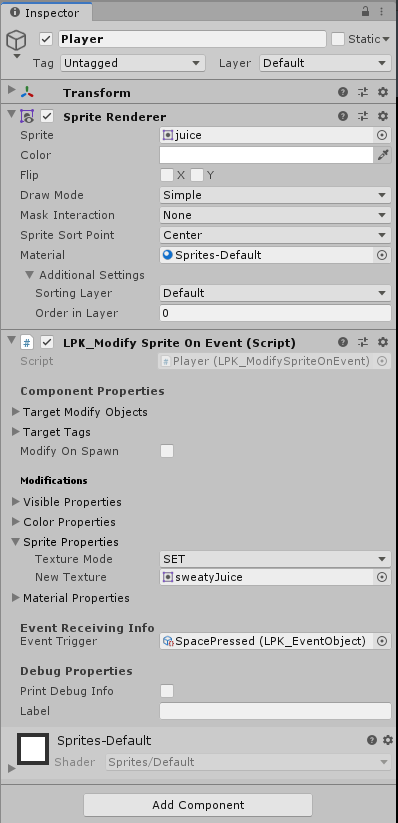
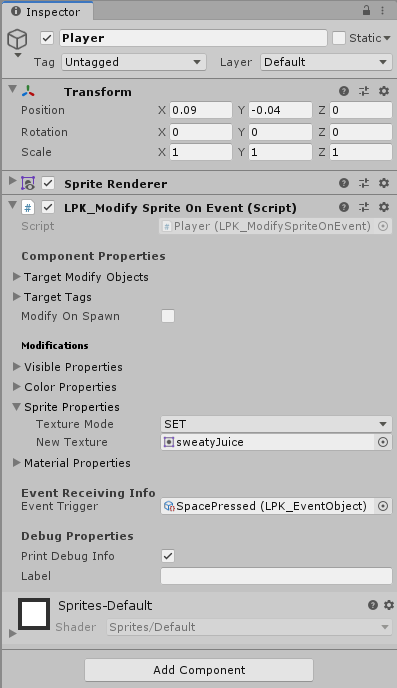
event system update

diff --git a/event_system_tutorial.html b/event_system_tutorial.html
@@ -44,7 +44,7 @@
                 DragonPack utilizes a custom, dynamic event system for easy game customization with no scripting! This tutorial explains the basics of how to use it, using <a href="dispatch_on_keyboard_input.html" target="_blank">Dispatch on Keyboard Input</a>                and <a href="modify_sprite_on_event.html" target="_blank">Modify Sprite on Event</a>.
 
                 <p>
-                    <font size="3px"><i>This tutorial follows suggested practices for naming conventions and organization. You may feel free to omit whatever details you see fit.</i></font>
+                    <font size="3px"><i>This tutorial follows suggested practices for naming conventions and organization - you may name and organize how you see fit, but make sure it's consistent and everything makes sense!</i></font>
                 </p>
 
                 This is the project that was used to create this tutorial. Feel free to download it to mess around with, but remember that creating things from scratch is important to really learn things!
@@ -57,8 +57,8 @@
                 </h2>
 
                 <p>
-                    DragonPack has custom 'EventObject' objects that you create and name. Some components send events, and other components receive events. The name of your events doesn't matter, as long as the name makes sense to you so you don't get confused. Read the
-                    rest of this tutorial to learn how to use them!
+                    DragonPack has custom event objects (appropriately named: 'EventObject') that you create and name. Some components send events, and other components receive events. The name of your events doesn't matter, as long as the name makes sense to you so you
+                    don't get confused. Read the rest of this tutorial to learn how to use them!
                 </p>
             </div>
             <div>
@@ -67,7 +67,7 @@
                 </h2>
 
                 <p>
-                    Create a Unity project and import the DragonPack code package. Rename your scene if you would like to.
+                    Create a Unity project and import the DragonPack code package.
                     <br><br>
                     <img src="assets/EventSystemTutorial/1.PNG" height=90% width=90%>
                 </p>
@@ -79,7 +79,9 @@
 
                 <p>
                     For organization, create a folder in your Assets directory, and name it 'Events', or something that makes sense.
-                    <br><br>
+                    <ul style="list-style-type:disc;">
+                        <li>Right click in the blank space of the Assets folder in your Project window, and Create -> Folder.</li>
+                    </ul>
                     <img src="assets/EventSystemTutorial/2.PNG">
                 </p>
             </div>
@@ -89,8 +91,10 @@
                 </h2>
 
                 <p>
-                    Right click in the empty space of your 'Events' folder, and go to Create->LPK->EventObject. This is how you make all "Events".
-                    <br><br>
+                    Create a folder to organize all of your event objects.
+                    <ul style="list-style-type:disc;">
+                        <li>Right click in the empty space of your 'Events' folder, and go to Create -> LPK -> EventObject. This is how you make all event objects.</li>
+                    </ul>
                     <img src="assets/EventSystemTutorial/3.PNG" height=90% width=90%>
                 </p>
             </div>
@@ -100,9 +104,11 @@
                 </h2>
 
                 <p>
-                    Right click on the EventObject that you just made, and rename it something that makes sense. The name of the event should correspond with the conditions that determine when it gets sent. In this tutorial, we are dispatching an event when the space key
-                    is pressed, so the name of the event is 'SpacePressed'.
-                    <br><br>
+                    Rename the event object to something that makes sense. The name of the event should correspond with the conditions that determine when it gets sent. In this tutorial, we are dispatching an event when the space key is pressed, so the name of the event
+                    is 'SpacePressed'.
+                    <ul style="list-style-type:disc;">
+                        <li>Right click on the event object, and select Rename to name it something that makes sense in the context.</li>
+                    </ul>
                     <img src="assets/EventSystemTutorial/4.PNG">
                 </p>
             </div>
@@ -112,8 +118,11 @@
                 </h2>
 
                 <p>
-                    Create an empty game object in your scene, and name it 'GameManager'. Add the <a href="dispatch_on_keyboard_input.html" target="_blank">Dispatch on Keyboard Input</a> component to it.
-                    <br><br>
+                    Create an empty game object to manage the inputs for the project.
+                    <ul style="list-style-type:disc;">
+                        <li>Click on GameObject -> Create Empty. Right click on it to rename it GameManager.</li>
+                        <li>Add the <a href="dispatch_on_keyboard_input.html" target="_blank">Dispatch on Keyboard Input</a> component to it.</li>
+                    </ul>
                     <img src="assets/EventSystemTutorial/5_alt.PNG" height=90% width=90%>
                 </p>
             </div>
@@ -123,10 +132,13 @@
                 </h2>
 
                 <p>
-                    In this tutorial, we want to send an event when the space key is pressed. To make this happen, we will first change the Trigger Key to be 'Space'. Next, we're going to choose the event that will be sent. Set the 'Event' under 'KeyboardInputEvent' to be
-                    'SpacePressed'. Make sure Event Sending Mode is set to ALL. If it's set to OWNER, only components on the same object will be able to receive the event 'SpacePressed'. We're also going to check the box for Print Debug Info so we can
-                    confirm that the event is sent with the appropriate trigger.
-                    <br><br>
+                    In this project, we want to send an event when the space key is pressed. We need to alter the <a href="dispatch_on_keyboard_input.html" target="_blank">Dispatch on Keyboard Input</a> component to make this happen.
+                    <ul style="list-style-type:disc;">
+                        <li>Change the Trigger Key to be 'Space'.</li>
+                        <li>Set 'Event' under 'KeyboardInputEvent' to be 'SpacePressed', by clicking on the small circle.</li>
+                        <li>Make sure 'Event Sending Mode' is set to ALL. If it's set to OWNER, only components on the same object will be able to receive the event 'SpacePressed'.</li>
+                        <li>Check the box next to 'Print Debug Info' to print the event info to the console - if something goes wrong, we can use the console to confirm if the event is actually happening or not.</li>
+                    </ul>
                     <img src="assets/EventSystemTutorial/6.PNG">
                 </p>
             </div>
@@ -136,7 +148,7 @@
                 </h2>
 
                 <p>
-                    Now, run the game and press the space bar. You should see this message in your console! If you don't, double check your names and component properties.
+                    Now, press the play button to run the game, then press the space bar. You should see this message in your console! If you don't, double check your names and component properties.
                     <br><br>
                     <img src="assets/EventSystemTutorial/7.PNG">
                 </p>
@@ -147,8 +159,15 @@
                 </h2>
 
                 <p>
-                    Create a 2D Sprite object and give it a sprite and name of your choosing. Add the <a href="modify_sprite_on_event.html" target="_blank">Modify Sprite on Event</a> component to it.
-                    <br><br>
+                    Console messages are cool, but we want something to actually happen in the game when the space bar is pressed! We're going to set things up so that a 2D object has it's sprite change.
+                    <ul style="list-style-type:disc;">
+                        <li>
+                            Click on GameObject -> 2D Object -> Sprite to create a 2D object. Rename it Player.
+                        </li>
+                        <li>
+                            Add the <a href="modify_sprite_on_event.html" target="_blank">Modify Sprite on Event</a> component to it.
+                        </li>
+                    </ul>
                     <img src="assets/EventSystemTutorial/8.PNG" height=90% width=90%>
                 </p>
             </div>
@@ -158,11 +177,20 @@
                 </h2>
 
                 <p>
-                    Under <a href="modify_sprite_on_event.html" target="_blank">Modify Sprite on Event</a>, there's lots of things you can change. In this tutorial, we are going to change the sprite of our object when the space bar is pressed. To do this,
-                    change the Texture Mode to SET under Sprite Properties. Set the new Texture/Sprite you want it to change to when the chosen event is received. Also, check Print Debug Info so we can confirm that the event is received.
-                    <br><br> Next, we need to tell it what event will trigger these changes. Under Event Receiving Info, change the Event Trigger to SpacePressed. Once this is done, our two components are connected! <a href="dispatch_on_keyboard_input.html"
-                        target="_blank">Dispatch on Keyboard Input</a> will send SpacePressed when the space key is pressed, and <a href="modify_sprite_on_event.html" target="_blank">Modify Sprite on Event</a> will modify our sprite when it receives SpacePressed.
-                    An infinite number of components can dispatch and receive the same events, but realistically, you don't want to have a lot of duplicates.
+                    We need to modify the <a href="modify_sprite_on_event.html" target="_blank">Modify Sprite on Event</a> to change the Player's sprite when it receives 'SpacePressed'.
+                    <ul style="list-style-type:disc;">
+                        <li>
+                            Under 'Sprite Properties', change texture mode to 'SET', and 'New Texture' to the sprite you want Player to be when the space bar is pressed. This well set the Player's sprite to the chosen new one!
+                        </li>
+                        <li>
+                            Check the box next to 'Print Debug Info'.
+                        </li>
+                        <li>
+                            Next, we need to tell it what event will trigger these changes. Under Event Receiving Info, change the Event Trigger to SpacePressed.
+                        </li>
+                    </ul>
+                    Now that this is done, our two components are connected! <a href="dispatch_on_keyboard_input.html" target="_blank">Dispatch on Keyboard Input</a> will send SpacePressed when the space key is pressed, and <a href="modify_sprite_on_event.html"
+                        target="_blank">Modify Sprite on Event</a> will modify our sprite when it receives SpacePressed. An infinite number of components can dispatch and receive the same events, but realistically, you don't want to have a lot of duplicates.
                     <br><br>
                     <img src="assets/EventSystemTutorial/9.PNG">
                 </p>
